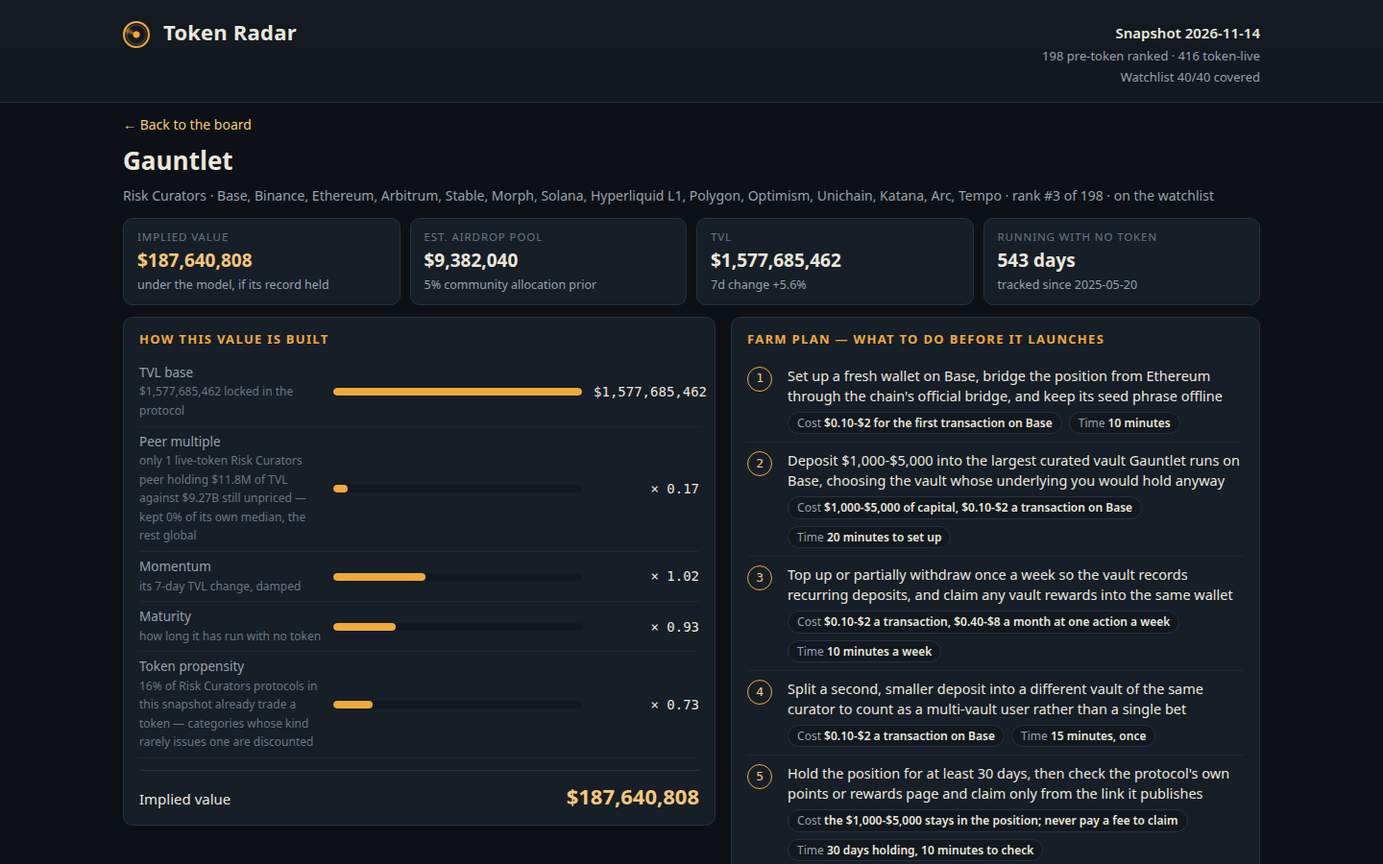
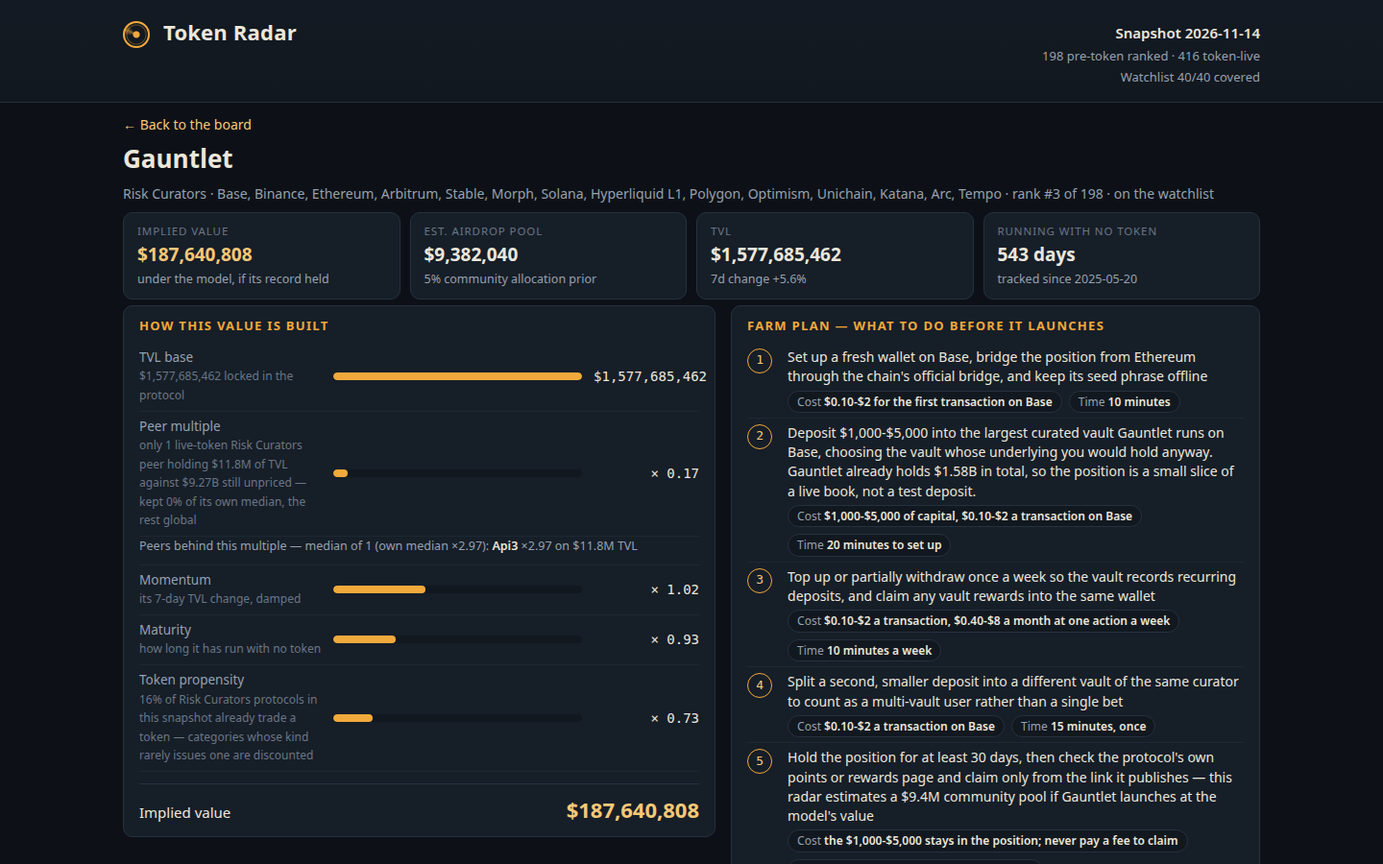
v5: peer-multiple-5 — no-waiting categories fall back to the global median; named peers in detail view; visible multiples table; farm plans name TVL and estimated pool

diff --git a/lib/model.ts b/lib/model.ts
@@ -11,6 +11,10 @@
 //                   (peerTVL + waitingTVL). One $12M peer does not price $8B of curators (w near 0),
 //                   while two multi-billion peers do price restaking (w near 1) — the dollars of
 //                   evidence, not the headcount, decide how much of the category's own median survives.
+//                   A category with nothing still waiting for a token (waitingTVL 0) keeps none of
+//                   its own median, whatever its peers say: its multiple is the global median. That
+//                   closes the v4 hole where two observations — one of them at the winsor cap — priced
+//                   a whole category (Token Locker's 1.53x) that no board row ever used.
 //   base            = tvl_usd x category multiple        (the FDV peers of its kind actually get)
 //   momentum        = 1 + clamp(change_7d, -40, +80) / 250   (unknown change counts as 1.0)
 //   maturity        = 0.85 + 0.30 x min(age_years, 4) / 4    (unknown listing date counts as 1.0)
@@ -54,7 +58,7 @@ export interface Snapshot {
 }
 
 /** The model's version label: the dashboard names it. */
-export const MODEL_VERSION = 'peer-multiple-4';
+export const MODEL_VERSION = 'peer-multiple-5';
 
 /** Categories that are products of a token that already trades, never a launch of their own. */
 const DERIVATIVE_CATEGORIES = new Set([
@@ -108,9 +112,20 @@ export function median(values: number[]): number {
   return sorted.length % 2 === 1 ? sorted[mid]! : (sorted[mid - 1]! + sorted[mid]!) / 2;
 }
 
+/** One traded peer behind a category's multiple: its name, its winsorized ratio (the one the
+ *  median is taken over), the raw ratio before winsorizing, and its TVL. */
+export interface CategoryPeer {
+  slug: string;
+  name: string;
+  ratio: number;
+  raw_ratio: number;
+  tvl_usd: number;
+}
+
 /** One category's peer multiple: how the category is keyed, its multiple, how many peers back it,
  *  how much TVL those peers carry, how much TVL is still waiting for a token, and the credibility
- *  weight the category's own median kept (1 when three or more peers speak for the category). */
+ *  weight the category's own median kept (1 when three or more peers speak for the category, 0
+ *  when nothing is waiting for a token), plus the peers themselves, largest TVL first. */
 export interface CategoryMultiple {
   key: string;
   multiple: number;
@@ -119,20 +134,26 @@ export interface CategoryMultiple {
   peer_tvl_usd: number;
   waiting_tvl_usd: number;
   credibility: number;
+  peers_detail: CategoryPeer[];
 }
 
 /** Every category's peer multiple, read off the snapshot's token-live protocols. */
 export function categoryMultiples(snapshot: Snapshot): { byCategory: Map<string, CategoryMultiple>; globalMedian: number } {
   const ratiosByCategory = new Map<string, number[]>();
+  const peersByCategory = new Map<string, CategoryPeer[]>();
   const peerTvlByCategory = new Map<string, number>();
   const all: number[] = [];
   for (const p of snapshot.protocols) {
     if (p.mcap_usd === null || p.tvl_usd <= 0) continue;
-    const ratio = Math.min(3, Math.max(0.02, p.mcap_usd / p.tvl_usd));
+    const rawRatio = p.mcap_usd / p.tvl_usd;
+    const ratio = Math.min(3, Math.max(0.02, rawRatio));
     const key = p.category ?? '';
     const list = ratiosByCategory.get(key) ?? [];
     list.push(ratio);
     ratiosByCategory.set(key, list);
+    const peers = peersByCategory.get(key) ?? [];
+    peers.push({ slug: p.slug, name: p.name, ratio, raw_ratio: rawRatio, tvl_usd: p.tvl_usd });
+    peersByCategory.set(key, peers);
     peerTvlByCategory.set(key, (peerTvlByCategory.get(key) ?? 0) + p.tvl_usd);
     all.push(ratio);
   }
@@ -149,16 +170,20 @@ export function categoryMultiples(snapshot: Snapshot): { byCategory: Map<string,
     const n = ratios.length;
     const peerTvl = peerTvlByCategory.get(key) ?? 0;
     const waitingTvl = waitingTvlByCategory.get(key) ?? 0;
-    const credibility = n >= 3 ? 1 : peerTvl / (peerTvl + waitingTvl);
-    const multiple = n >= 3 ? catMedian : credibility * catMedian + (1 - credibility) * globalMedian;
-    byCategory.set(key, { key, multiple, peers: n, category_median: catMedian, peer_tvl_usd: peerTvl, waiting_tvl_usd: waitingTvl, credibility });
+    // A category with nothing waiting for a token has nothing to price: its own median, however
+    // thin, survives at weight zero and the global median stands in. Otherwise the v4 rule:
+    // three or more peers speak for the category, fewer are shrunk by the dollars of evidence.
+    const credibility = waitingTvl === 0 ? 0 : n >= 3 ? 1 : peerTvl / (peerTvl + waitingTvl);
+    const multiple = n >= 3 && waitingTvl > 0 ? catMedian : credibility * catMedian + (1 - credibility) * globalMedian;
+    const peersDetail = (peersByCategory.get(key) ?? []).sort((a, b) => b.tvl_usd - a.tvl_usd);
+    byCategory.set(key, { key, multiple, peers: n, category_median: catMedian, peer_tvl_usd: peerTvl, waiting_tvl_usd: waitingTvl, credibility, peers_detail: peersDetail });
   }
   return { byCategory, globalMedian };
 }
 
 /** The multiple a protocol's category carries, with the global median for a category with no peers. */
 export function multipleFor(byCategory: Map<string, CategoryMultiple>, globalMedian: number, category: string | null): CategoryMultiple {
-  return byCategory.get(category ?? '') ?? { key: category ?? '', multiple: globalMedian, peers: 0, category_median: globalMedian, peer_tvl_usd: 0, waiting_tvl_usd: 0, credibility: 0 };
+  return byCategory.get(category ?? '') ?? { key: category ?? '', multiple: globalMedian, peers: 0, category_median: globalMedian, peer_tvl_usd: 0, waiting_tvl_usd: 0, credibility: 0, peers_detail: [] };
 }
 
 /** One category's token propensity: its shrunk token-live share and the factor it maps to. */
@@ -315,6 +340,15 @@ export interface CategoryMultipleRow {
   propensity: number;
 }
 
+/** The traded peers behind one category's multiple, as the detail view names them: the largest
+ *  peers by TVL (at most four), the count they come from, and the category's own median. */
+export interface CategoryPeersRow {
+  category: string;
+  total: number;
+  median: number;
+  peers: CategoryPeer[];
+}
+
 /** Everything the dashboard needs: the board, the live set, and the model it runs. */
 export interface RadarData {
   as_of: string;
@@ -324,6 +358,7 @@ export interface RadarData {
   global_multiple: number;
   global_token_share: number;
   category_multiples: CategoryMultipleRow[];
+  category_peers: CategoryPeersRow[];
   watchlist_size: number;
   board_size: number;
   live_size: number;
@@ -350,7 +385,8 @@ export function buildBoard(snapshot: Snapshot): BoardRow[] {
     const maturity = maturityFactor(snapshot.as_of, p.listed_at);
     const propensity = propensityFor(propensities.byCategory, propensities.globalShare, p.category);
     const implied = Math.max(1, Math.round(p.tvl_usd * mult.multiple * momentum * maturity.factor * propensity.factor));
-    return { p, mult, momentum, maturity, propensity, implied };
+    const pool = Math.round(implied * allocationPrior(p.category));
+    return { p, mult, momentum, maturity, propensity, implied, pool };
   });
   scored.sort((a, b) => b.implied - a.implied || b.p.tvl_usd - a.p.tvl_usd || (a.p.slug < b.p.slug ? -1 : a.p.slug > b.p.slug ? 1 : 0));
   return scored.map((s, i) => ({
@@ -377,7 +413,7 @@ export function buildBoard(snapshot: Snapshot): BoardRow[] {
       propensity_share: round4(s.propensity.share),
       allocation_prior: allocationPrior(s.p.category),
     },
-    farm_steps: farmSteps(s.p, s.maturity.age).map(stepText),
+    farm_steps: farmSteps(s.p, s.maturity.age, s.pool).map(stepText),
   }));
 }
 
@@ -419,6 +455,17 @@ export function buildRadar(snapshot: Snapshot): { board: BoardRow[]; radar: Rada
         return { category: category ?? 'Uncategorised', multiple: round4(m.multiple), peers: m.peers, peer_tvl_usd: Math.round(m.peer_tvl_usd), credibility: round4(m.credibility), propensity: round4(prop.factor) };
       })
       .sort((a, b) => (a.category < b.category ? -1 : a.category > b.category ? 1 : 0)),
+    category_peers: boardCategories
+      .map((category) => {
+        const m = multipleFor(byCategory, globalMedian, category);
+        return {
+          category: category ?? 'Uncategorised',
+          total: m.peers,
+          median: round4(m.category_median),
+          peers: m.peers_detail.slice(0, 4).map((p) => ({ slug: p.slug, name: p.name, ratio: round4(p.ratio), raw_ratio: round4(p.raw_ratio), tvl_usd: Math.round(p.tvl_usd) })),
+        };
+      })
+      .sort((a, b) => (a.category < b.category ? -1 : a.category > b.category ? 1 : 0)),
     watchlist_size: snapshot.watchlist.length,
     board_size: board.length,
     live_size: live.length,
@@ -428,7 +475,7 @@ export function buildRadar(snapshot: Snapshot): { board: BoardRow[]; radar: Rada
       return {
         ...rest,
         pool_usd: Math.round(row.implied_value_usd * row.model.allocation_prior),
-        farm_steps: farmSteps(p, row.age_days),
+        farm_steps: farmSteps(p, row.age_days, Math.round(row.implied_value_usd * row.model.allocation_prior)),
       };
     }),
     live,

diff --git a/dashboard/app.js b/dashboard/app.js
@@ -64,11 +64,11 @@ function renderChrome() {
     `<div>Watchlist ${R.watchlist_size}/${R.watchlist_size} covered</div>`;
   document.getElementById('model-panel').innerHTML =
     `<div class="model-card"><div><h2>How implied value works</h2>` +
-    `<p>Each protocol is priced the way its own category actually trades: the multiple is the median market-cap / TVL of the category's live-token protocols in this snapshot (global median ${R.global_multiple.toFixed(2)}x), nudged by its 7-day TVL momentum and by how long it has run with no token, then scaled by its category's token propensity — the share of that category's protocols whose token already trades (${(R.global_token_share * 100).toFixed(0)}% across the snapshot), so categories that mostly manage other people's assets are not read as pure TVL. A category with fewer than three traded peers keeps only as much of its own median as its peers' TVL earns against the TVL still waiting for a token — one small peer never prices billions. The est. pool applies a category allocation prior — the share of a launch typically reserved for the community that farmed it.</p>` +
-    `<details class="multiples"><summary>Peer multiples and propensity by category, from this snapshot</summary><div class="mult-grid">` +
-    R.category_multiples.map((c) => `<span>${esc(c.category)} <b>×${c.multiple.toFixed(2)}</b> <i>(${c.peers} peer${c.peers === 1 ? '' : 's'}${c.peers < 3 ? `, ${money(c.peer_tvl_usd)} peer TVL` : ''})</i> · prop <b>×${c.propensity.toFixed(2)}</b></span>`).join('') +
-    `</div></details></div>` +
-    `<div class="formula"><b>implied</b> <span class="op">=</span> TVL <span class="op">×</span> <b>peer multiple</b> <span class="op">×</span> <b>momentum</b> <span class="op">×</span> <b>maturity</b> <span class="op">×</span> <b>propensity</b></div></div>`;
+    `<p>Each protocol is priced the way its own category actually trades: the multiple is the median market-cap / TVL of the category's live-token protocols in this snapshot (global median ${R.global_multiple.toFixed(2)}x), nudged by 7-day TVL momentum, maturity and its category's token propensity — the share of that category's protocols whose token already trades (${(R.global_token_share * 100).toFixed(0)}% across the snapshot), so categories that mostly manage other people's assets are not read as pure TVL. With fewer than three traded peers a category keeps only as much of its own median as its peers' TVL earns against the TVL still waiting — one small peer never prices billions — and a category with nothing waiting keeps none of it.</p></div>` +
+    `<div class="formula"><b>implied</b> <span class="op">=</span> TVL <span class="op">×</span> <b>peer multiple</b> <span class="op">×</span> <b>momentum</b> <span class="op">×</span> <b>maturity</b> <span class="op">×</span> <b>propensity</b></div>` +
+    `<div class="multiples"><div class="mult-head">Peer multiples and propensity by category, from this snapshot</div><div class="mult-grid">` +
+    R.category_multiples.filter((c) => c.peers > 0).map((c) => `<span>${esc(c.category)} <b>×${c.multiple.toFixed(2)}</b> <i>(${c.peers} peer${c.peers === 1 ? '' : 's'})</i> · prop <b>×${c.propensity.toFixed(2)}</b></span>`).join('') +
+    `</div><div class="mult-foot">${R.category_multiples.filter((c) => c.peers === 0).length} more categor${R.category_multiples.filter((c) => c.peers === 0).length === 1 ? 'y has' : 'ies have'} no traded peers and carry the global median ×${R.global_multiple.toFixed(2)}. Est. pool is the category's community allocation share of the implied value.</div></div></div>`;
   document.getElementById('foot').textContent =
     `Data: ${R.source}. Implied values are this radar's own model estimates (model ${R.model_version}), not predictions that a token will launch. A protocol listed here records no token in the snapshot; that is DefiLlama's record, not proof none exists.`;
 }
@@ -106,7 +106,7 @@ function renderBoard(s) {
     `<span class="result-count" id="count"></span></div>` +
     (s.tab === 'live'
       ? `<p class="note"><b>Already trading.</b> These protocols have a token in the snapshot, so the radar does not rank them — it shows the market's own market cap. The pre-token board is where the launches have not happened yet.</p>`
-      : `<p class="note">Ranked by implied value under the model above. <b>Watchlist</b> rows are the snapshot's ${R.watchlist_size} largest pre-token protocols (TVL at or above ${money(R.floor_usd)}); the rest are the early finds below that floor. Click any row for its model breakdown and farm plan.</p>`) +
+      : `<p class="note">Ranked by implied value — click any row for its model breakdown and farm plan. <b>Watchlist</b> rows are the snapshot's ${R.watchlist_size} largest pre-token protocols (TVL at or above ${money(R.floor_usd)}).</p>`) +
     `<table class="board"><thead><tr>${cols.map(([k, label, cls]) => `<th class="${cls}" data-sort="${k}">${label}${sortMark(s, k)}</th>`).join('')}</tr></thead><tbody id="tbody"></tbody></table>`;
   wireBoard();
   updateTable();
@@ -191,6 +191,19 @@ function peerExplain(m, category) {
   if (m.peers >= 1) return `only ${m.peers} live-token ${category} peer${m.peers === 1 ? '' : 's'} holding ${money(m.peer_tvl_usd)} of TVL against ${money(m.waiting_tvl_usd)} still unpriced — kept ${Math.round(m.credibility * 100)}% of its own median, the rest global`;
   return `no live-token ${category} peers — the global median multiple`;
 }
+/** The traded peers a multiple is taken from, named so the number can be checked: the largest
+ *  peers by TVL with their market-cap / TVL ratios (ratios are winsorized to [0.02, 3] before
+ *  the median is taken, and a ratio that hit the cap says so). */
+function peerLine(category) {
+  const row = (R.category_peers || []).find((c) => c.category === (category || 'Uncategorised'));
+  if (!row || row.total === 0) return '';
+  const shown = row.peers.map((p) => {
+    const tag = p.raw_ratio > 3 ? ' capped' : p.raw_ratio < 0.02 ? ' floored' : '';
+    return `<b>${esc(p.name)}</b> ×${p.ratio.toFixed(2)}${tag} on ${money(p.tvl_usd)} TVL`;
+  }).join(' · ');
+  const more = row.total > row.peers.length ? ` · and ${row.total - row.peers.length} more` : '';
+  return `<div class="peers-line">Peers behind this multiple — median of ${row.total} (own median ×${row.median.toFixed(2)}): ${shown}${more}</div>`;
+}
 function factorRow(label, explain, kind, v, shown, row) {
   return `<div class="factor"><div class="fk">${label}<br><span style="color:var(--faint);font-size:12px">${explain}</span></div><div class="bar"><i style="width:${barWidth(kind, v, row).toFixed(1)}%"></i></div><div class="fv">${shown}</div></div>`;
 }
@@ -211,6 +224,7 @@ function renderDetail(slug) {
     `<div class="detail-grid"><section class="panel"><h3>How this value is built</h3>` +
     factorRow('TVL base', `${moneyFull(r.tvl_usd)} locked in the protocol`, 'base', 0, moneyFull(r.tvl_usd), r) +
     factorRow('Peer multiple', esc(peerExplain(m, catLabel(r.category))), 'multiple', m.multiple, '× ' + m.multiple.toFixed(2), r) +
+    peerLine(r.category) +
     factorRow('Momentum', 'its 7-day TVL change, damped', 'momentum', m.momentum, '× ' + m.momentum.toFixed(2), r) +
     factorRow('Maturity', 'how long it has run with no token', 'maturity', m.maturity, '× ' + m.maturity.toFixed(2), r) +
     factorRow('Token propensity', `${(m.propensity_share * 100).toFixed(0)}% of ${esc(catLabel(r.category))} protocols in this snapshot already trade a token — categories whose kind rarely issues one are discounted`, 'propensity', m.propensity, '× ' + m.propensity.toFixed(2), r) +

diff --git a/dashboard/app.css b/dashboard/app.css
@@ -33,7 +33,7 @@ a:hover { text-decoration: underline; }
 
 /* Masthead */
 .masthead { background: linear-gradient(180deg, #131a23, var(--ink-2)); border-bottom: 1px solid var(--line); }
-.masthead-in { max-width: 1240px; margin: 0 auto; padding: 26px 28px 6px; display: flex; justify-content: space-between; gap: 24px; align-items: flex-start; }
+.masthead-in { max-width: 1240px; margin: 0 auto; padding: 18px 28px 6px; display: flex; justify-content: space-between; gap: 24px; align-items: flex-start; }
 .brand { display: flex; gap: 14px; align-items: flex-start; }
 .brand-mark {
   flex: none; width: 38px; height: 38px; margin-top: 4px; border-radius: 50%;
@@ -45,7 +45,7 @@ a:hover { text-decoration: underline; }
     radial-gradient(circle at 50% 50%, transparent 0 15px, rgba(242, 169, 59, .22) 16px, transparent 17px);
 }
 h1 { margin: 0; font-size: 30px; letter-spacing: .2px; font-weight: 700; }
-.tagline { margin: 5px 0 0; color: var(--muted); max-width: 640px; font-size: 14.5px; }
+.tagline { margin: 5px 0 0; color: var(--muted); max-width: 820px; font-size: 14.5px; }
 .masthead-meta { text-align: right; color: var(--muted); font-size: 13px; flex: none; padding-top: 6px; }
 .masthead-meta .big { color: var(--text); font-size: 15px; font-weight: 600; }
 .masthead-meta div { margin-bottom: 3px; }
@@ -61,9 +61,10 @@ h1 { margin: 0; font-size: 30px; letter-spacing: .2px; font-weight: 700; }
 .formula { font-family: var(--mono); font-size: 14.5px; color: var(--text); white-space: nowrap; }
 .formula b { color: var(--amber-soft); font-weight: 600; }
 .formula .op { color: var(--faint); padding: 0 2px; }
-.multiples { margin-top: 10px; }
-.multiples summary { cursor: pointer; color: var(--amber-soft); font-size: 13px; font-weight: 600; }
-.mult-grid { display: flex; flex-wrap: wrap; gap: 5px 16px; margin-top: 8px; }
+.multiples { margin-top: 10px; grid-column: 1 / -1; }
+.mult-head { color: var(--amber-soft); font-size: 13px; font-weight: 600; }
+.mult-grid { display: grid; grid-template-columns: repeat(4, 1fr); gap: 4px 16px; margin-top: 8px; }
+.mult-foot { margin-top: 7px; font-size: 12.5px; color: var(--faint); }
 .mult-grid span { font-size: 12.5px; color: var(--muted); font-variant-numeric: tabular-nums; }
 .mult-grid b { color: var(--text); font-weight: 600; }
 .mult-grid i { color: var(--faint); font-style: normal; }
@@ -75,7 +76,7 @@ body.is-detail .tagline { display: none; }
 body.is-detail h1 { font-size: 22px; }
 body.is-detail .brand-mark { width: 28px; height: 28px; }
 body.is-detail main { padding-top: 12px; }
-body.is-detail .back { margin-bottom: 8px; }
+body.is-detail .back { margin-bottom: 6px; }
 
 /* Layout */
 main { max-width: 1240px; margin: 0 auto; padding: 20px 28px 8px; }
@@ -135,7 +136,7 @@ td.right, th.right { text-align: right; }
 .detail-head { display: flex; flex-wrap: wrap; gap: 8px 26px; align-items: baseline; margin-bottom: 4px; }
 .detail-head h2 { margin: 0; font-size: 26px; }
 .detail-head .sub { color: var(--muted); font-size: 14px; }
-.stat-grid { display: grid; grid-template-columns: repeat(auto-fit, minmax(150px, 1fr)); gap: 10px; margin: 12px 0; }
+.stat-grid { display: grid; grid-template-columns: repeat(auto-fit, minmax(150px, 1fr)); gap: 10px; margin: 8px 0 6px; }
 .stat { background: var(--panel); border: 1px solid var(--line); border-radius: var(--radius); padding: 11px 14px; }
 .stat .k { font-size: 11.5px; text-transform: uppercase; letter-spacing: .9px; color: var(--faint); }
 .stat .v { font-size: 19px; font-weight: 650; margin-top: 3px; }
@@ -145,8 +146,8 @@ td.right, th.right { text-align: right; }
 /* Detail view: the breakdown and the farm plan sit side by side on a wide screen, so a reader
    sees both the value's working and what to do about it without scrolling; they stack on narrow. */
 .detail-grid { display: grid; grid-template-columns: 1.12fr 1fr; gap: 16px; align-items: start; }
-.detail-grid .panel { margin: 0; padding: 13px 16px; }
-.panel h3 { margin: 0 0 10px; font-size: 13px; text-transform: uppercase; letter-spacing: 1.3px; color: var(--amber); }
+.detail-grid .panel { margin: 0; padding: 11px 16px; }
+.panel h3 { margin: 0 0 8px; font-size: 13px; text-transform: uppercase; letter-spacing: 1.3px; color: var(--amber); }
 .factor { display: grid; grid-template-columns: 190px 1fr 110px; gap: 12px; align-items: center; padding: 6px 0; border-bottom: 1px solid var(--line-soft); }
 .factor:last-of-type { border-bottom: 0; }
 .factor .fk { color: var(--muted); font-size: 13.5px; }
@@ -155,16 +156,19 @@ td.right, th.right { text-align: right; }
 .bar i { display: block; height: 100%; background: var(--amber); border-radius: 99px; }
 .factor-total { display: flex; justify-content: space-between; align-items: baseline; margin-top: 12px; padding-top: 11px; border-top: 1px solid var(--line); }
 .factor-total .tv { font-size: 22px; font-weight: 700; color: var(--amber-soft); }
+/* The traded peers a multiple is taken from, named under the factor row so the number is checkable. */
+.peers-line { font-size: 12.5px; color: var(--muted); padding: 1px 0 9px; border-bottom: 1px solid var(--line-soft); line-height: 1.5; }
+.peers-line b { color: var(--text); font-weight: 600; }
 ol.plan { margin: 0; padding: 0; list-style: none; counter-reset: step; }
-ol.plan li { display: grid; grid-template-columns: 30px 1fr; gap: 12px; padding: 8px 0; border-bottom: 1px solid var(--line-soft); }
+ol.plan li { display: grid; grid-template-columns: 30px 1fr; gap: 12px; padding: 5px 0; border-bottom: 1px solid var(--line-soft); }
 ol.plan li:last-child { border-bottom: 0; }
 ol.plan .n {
   counter-increment: step; width: 26px; height: 26px; border-radius: 50%; border: 1.5px solid var(--amber);
   color: var(--amber-soft); font-family: var(--mono); font-size: 13px; display: flex; align-items: center; justify-content: center; margin-top: 1px;
 }
 ol.plan .n::before { content: counter(step); }
-ol.plan .step-text { font-size: 14.5px; }
-.step-chips { margin-top: 6px; display: flex; gap: 7px; flex-wrap: wrap; }
+ol.plan .step-text { font-size: 14px; }
+.step-chips { margin-top: 4px; display: flex; gap: 7px; flex-wrap: wrap; }
 .step-chips span { font-size: 12px; color: var(--muted); background: var(--ink-2); border: 1px solid var(--line); border-radius: 999px; padding: 2px 9px; }
 .step-chips span b { color: var(--text); font-weight: 600; }
 @media (max-width: 760px) {

diff --git a/lib/farm.ts b/lib/farm.ts
@@ -288,11 +288,22 @@ function setupStep(chain: string | null, gas: GasBand): string {
   return `Set up a fresh wallet for this farm, fund it on ${gas.label} with the position plus gas money, and keep its seed phrase offline`;
 }
 
+/** A short money label for a step's own figures ($1.58B, $9.4M, $12.4K). */
+export function moneyShort(n: number): string {
+  if (n >= 1e9) return '$' + (n / 1e9).toFixed(2) + 'B';
+  if (n >= 1e6) return '$' + (n / 1e6).toFixed(1) + 'M';
+  if (n >= 1e3) return '$' + (n / 1e3).toFixed(1) + 'K';
+  return '$' + Math.round(n);
+}
+
 /**
  * A protocol's farm plan: five steps, each an action with a cost and a time, derived from the
- * protocol's category, first chain, TVL and age.
+ * protocol's category, first chain, TVL and age — and from the model's own estimate of its
+ * community pool, so the plan is this protocol's, not a template with a name swapped in: the
+ * opening step names the TVL already sitting in it, and the claim step names the pool the
+ * model estimates for it.
  */
-export function farmSteps(p: FarmProtocol, ageDays: number | null): FarmStep[] {
+export function farmSteps(p: FarmProtocol, ageDays: number | null, poolUsd: number | null = null): FarmStep[] {
   const chain = firstChain(p);
   const gas = gasBand(chain);
   const pos = positionFor(p.tvl_usd);
@@ -305,7 +316,7 @@ export function farmSteps(p: FarmProtocol, ageDays: number | null): FarmStep[] {
       time: '10 minutes',
     },
     {
-      text: fill(book.open, p, pos.label, gas.label),
+      text: `${fill(book.open, p, pos.label, gas.label)}. ${p.name} already holds ${moneyShort(p.tvl_usd)} in total, so the position is a small slice of a live book, not a test deposit.`,
       cost: `${pos.label} of capital, ${gas.perTx} a transaction on ${gas.label}`,
       time: '20 minutes to set up',
     },
@@ -320,7 +331,7 @@ export function farmSteps(p: FarmProtocol, ageDays: number | null): FarmStep[] {
       time: '15 minutes, once',
     },
     {
-      text: `Hold the position for at least ${hold} days, then check ${claimHint(p.category)} and claim only from the link it publishes`,
+      text: `Hold the position for at least ${hold} days, then check ${claimHint(p.category)} and claim only from the link it publishes${poolUsd !== null ? ` — this radar estimates a ${moneyShort(poolUsd)} community pool if ${p.name} launches at the model's value` : ''}`,
       cost: `the ${pos.label} stays in the position; never pay a fee to claim`,
       time: `${hold} days holding, 10 minutes to check`,
     },

diff --git a/dashboard/index.html b/dashboard/index.html
@@ -13,7 +13,7 @@
       <span class="brand-mark" aria-hidden="true"></span>
       <div>
         <h1>Token Radar</h1>
-        <p class="tagline">Pre-token protocols ranked by implied value — what a launch would be worth if each protocol's record stayed as it is, and how to farm it before it happens.</p>
+        <p class="tagline">Pre-token protocols ranked by implied value — what a launch would be worth, and how to farm it first.</p>
       </div>
     </div>
     <div class="masthead-meta" id="masthead-meta"></div>

diff --git a/README.md b/README.md
@@ -25,7 +25,12 @@ implied value = TVL × peer multiple × momentum × maturity × propensity
   credibility: the traded peers' TVL against the TVL of the category's protocols still waiting for
   a token, `w = peerTVL / (peerTVL + waitingTVL)`. One $12M peer does not price $8B of curators
   (w near 0), while two multi-billion peers do price restaking (w near 1) — the dollars of
-  evidence, not the headcount, decide how much of the category's own median survives.
+  evidence, not the headcount, decide how much of the category's own median survives. A category
+  with nothing still waiting for a token keeps none of its own median, whatever its peers say:
+  its multiple is the global median. That closes the hole where two observations — one of them at
+  the winsor cap — priced a whole category (Token Locker's 1.53×) that no board row ever used.
+  The detail view names the traded peers behind each multiple, with their ratios and TVL, so the
+  number can be checked against the snapshot.
 - **Momentum** — `1 + clamp(change_7d, −40, +80) / 250`; an unreported change counts as 1.0.
 - **Maturity** — `0.85 + 0.30 · min(age_years, 4) / 4` from the day DefiLlama began tracking the
   protocol; an unknown listing date counts as 1.0.
@@ -44,7 +49,8 @@ names carrying the whole words *wrapped*, *staked* or *staking*, and exchange-pr
 multiple and peer count, read off the same snapshot. The dashboard also carries an estimated
 airdrop pool per row — implied value × a per-category community-allocation prior (5–12%) — and a generated farm plan
 per protocol: category playbooks priced with the gas band of the protocol's own first chain and a
-position sized to its TVL. Token-bearing protocols are shown separately, at the market's own market
+position sized to its TVL, with the opening step naming the TVL already sitting in the protocol
+and the claim step naming the pool the model estimates for it. Token-bearing protocols are shown separately, at the market's own market
 cap, and are never ranked by the model.
 
 ## Run it
